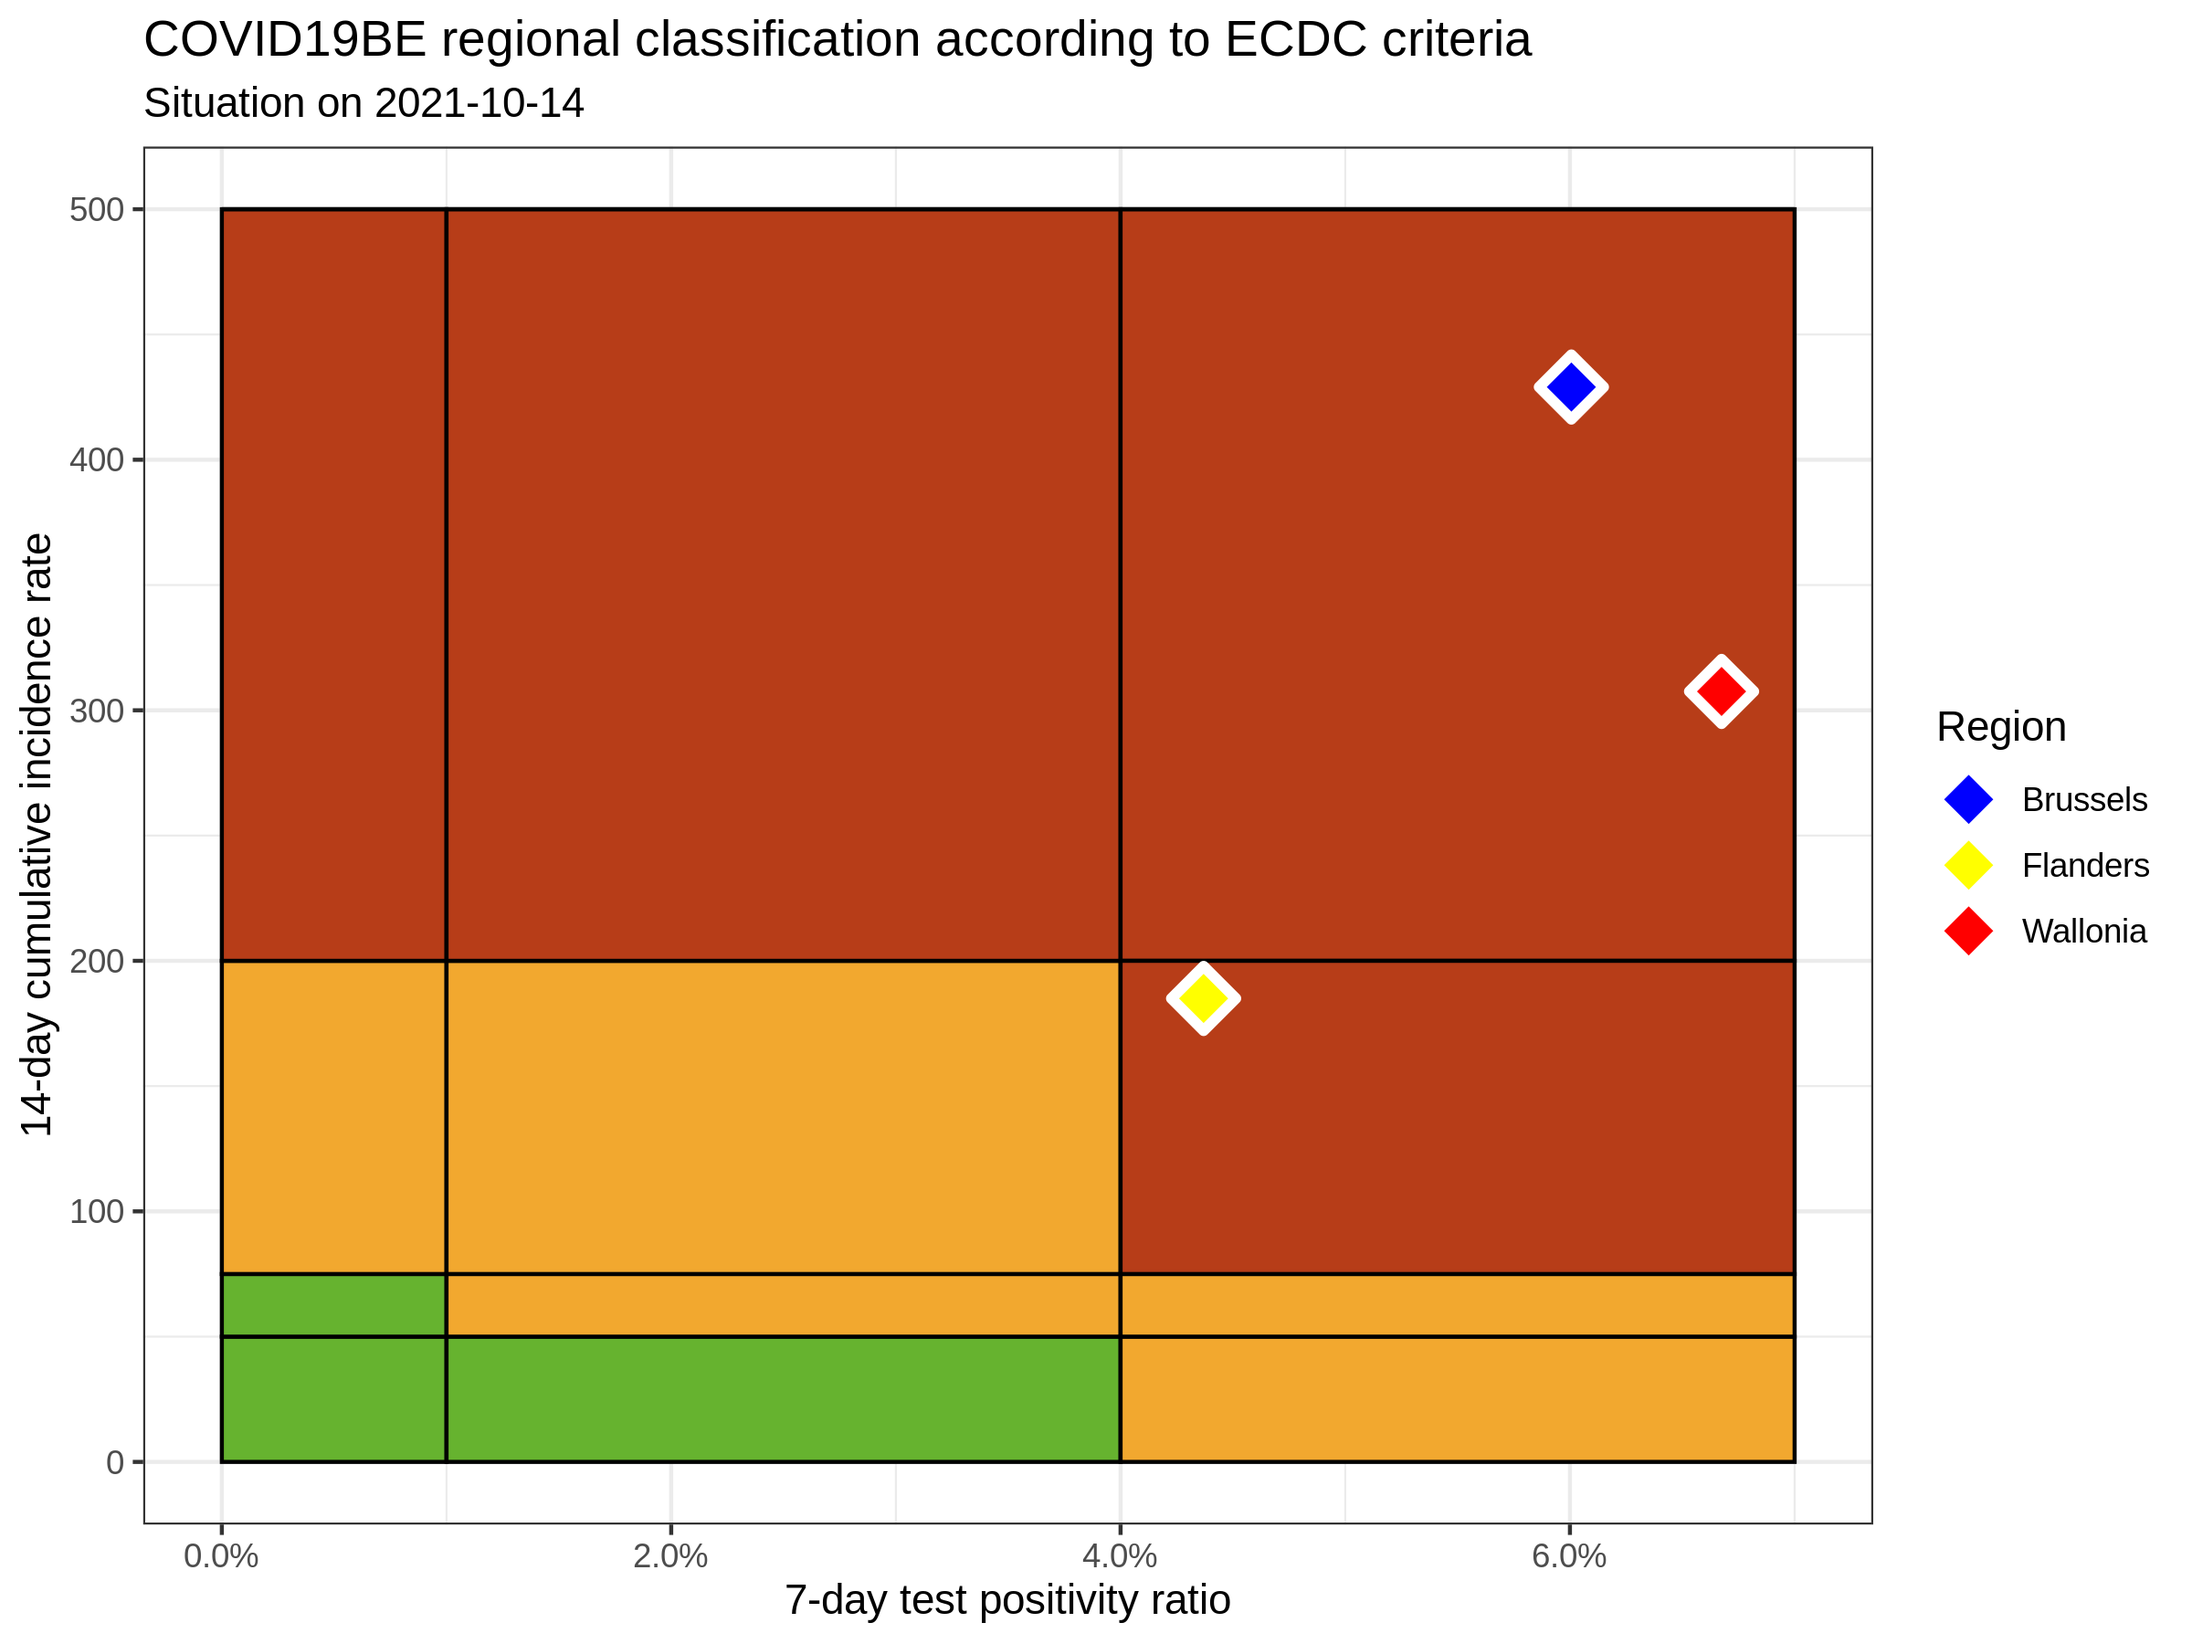
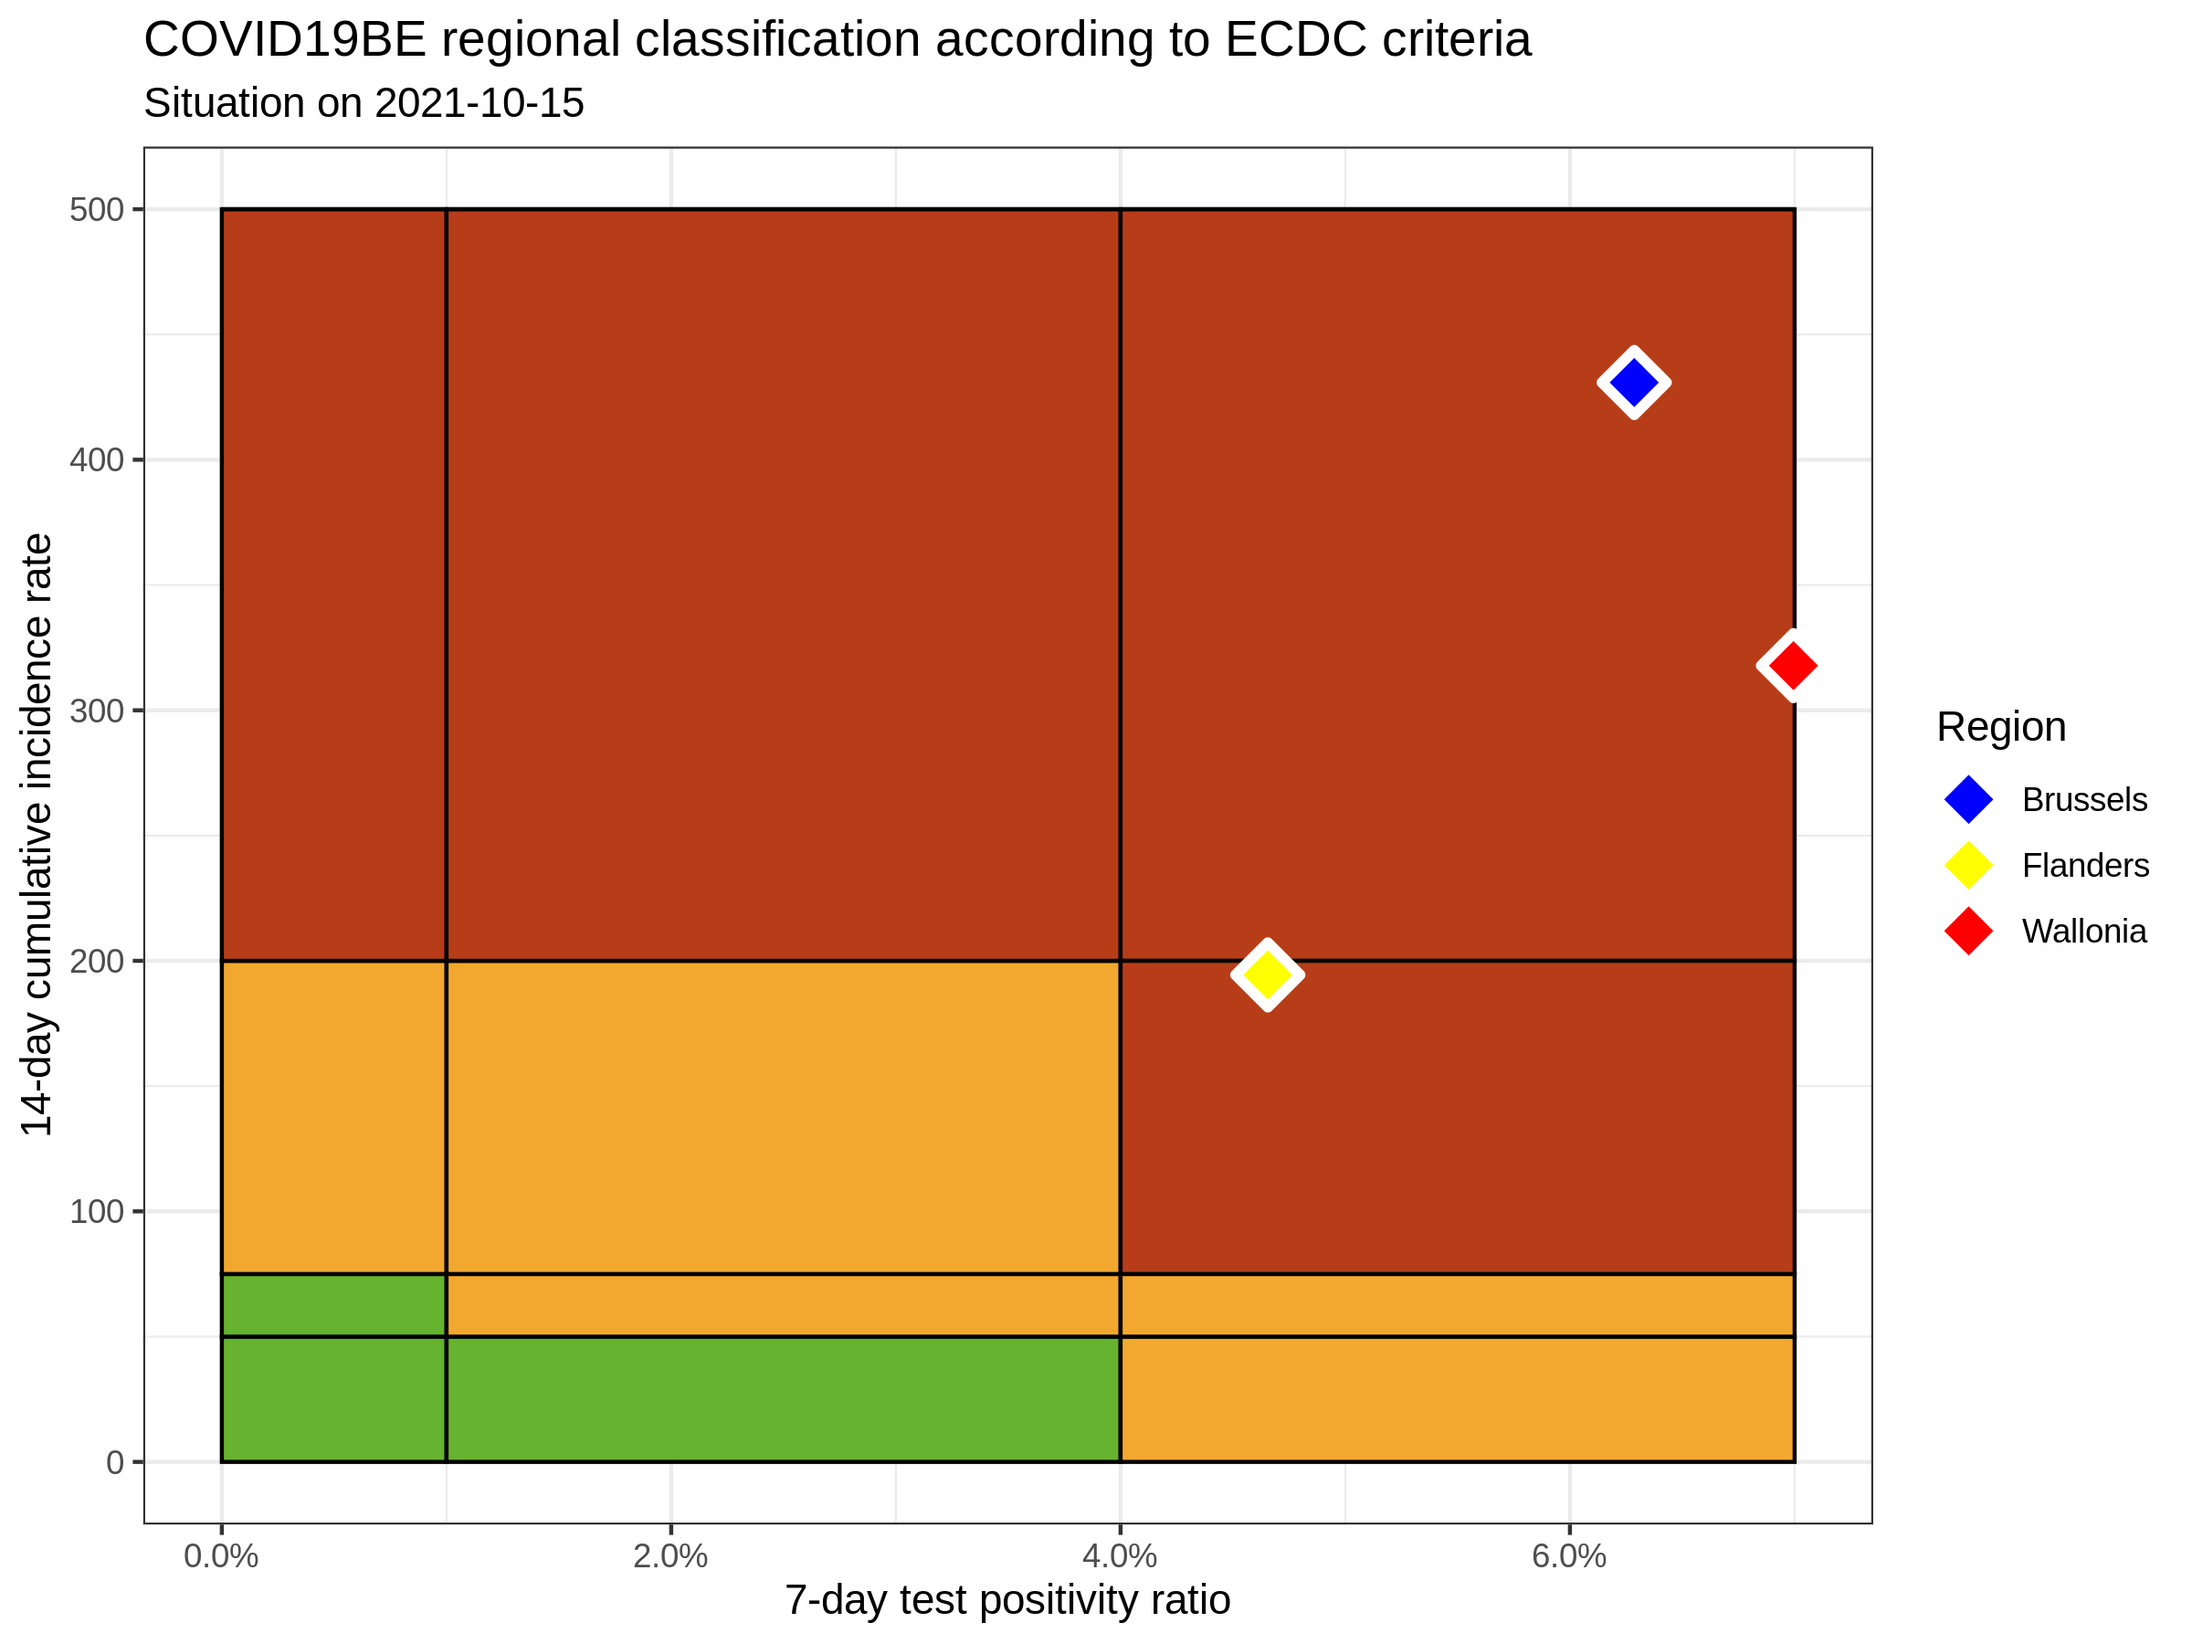
update situation

Changed region(s): [[0.75, 0.3733, 0.8438, 0.4356], [0.6875, 0.2178, 0.7812, 0.2489], [0.5312, 0.56, 0.5938, 0.6222]]

diff --git a/ecdc-trend/README.md b/ecdc-trend/README.md
@@ -11,9 +11,9 @@
 
 |          | INC14 | INC7 |   TST7 | TST\_POS7 | REGION   |     POP | INC14\_RT |       PR7 |        GR |
 | :------- | ----: | ---: | -----: | --------: | :------- | ------: | --------: | --------: | --------: |
-| Brussels |  5234 | 2630 |  47183 |      2834 | Brussels | 1219970 |  429.0269 | 0.0600640 | 0.0099846 |
-| Flanders | 12307 | 7019 | 165349 |      7225 | Flanders | 6653062 |  184.9825 | 0.0436955 | 0.3273449 |
-| Wallonia | 11219 | 5982 |  93560 |      6245 | Wallonia | 3648206 |  307.5210 | 0.0667486 | 0.1422570 |
+| Brussels |  5256 | 2716 |  46976 |      2953 | Brussels | 1219970 |  430.8303 | 0.0628619 | 0.0692913 |
+| Flanders | 12932 | 7607 | 169440 |      7888 | Flanders | 6653062 |  194.3767 | 0.0465534 | 0.4285446 |
+| Wallonia | 11595 | 6429 |  94969 |      6643 | Wallonia | 3648206 |  317.8274 | 0.0699491 | 0.2444832 |
 
 ### Read more
 
